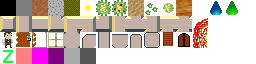
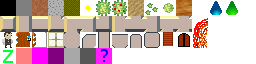
Makes invisible things turn into hot pink tiles with a question mark on them (temporary fix until I get font glyphs drawing in their place) Hopeful fix to weather animations being slow. Seems to work on my build, but may not have fixed the overall problem.

Changed region(s): [[0.375, 0.75, 0.4375, 1.0]]

diff --git a/cata_tiles.cpp b/cata_tiles.cpp
@@ -183,7 +183,9 @@ void cata_tiles::load_tileset(std::string path)
     }
     /** create the buffer screen */
     buffer = SDL_AllocSurface(SDL_SWSURFACE, WindowWidth, WindowHeight, 32, 0xff0000, 0xff00, 0xff, 0);
-    // overlay has an alpha mask attached
+
+    screentile_height = WindowHeight / tile_height;
+    screentile_width = WindowWidth / tile_width;
 
 DebugLog() << "Buffer Surface-- Width: " << buffer->w << " Height: " << buffer->h << "\n";
     /** reinit tile_atlas */
@@ -460,7 +462,7 @@ void cata_tiles::draw(int destx, int desty, int centerx, int centery, int width,
             // Draw Terrain if possible. If not possible then we need to continue on to the next part of loop
             if (!draw_terrain(x,y))
             {
-                DebugLog() << "Terrain Failed to load at <"<<x<<", "<<y<<">\n";
+                //DebugLog() << "Terrain Failed to load at <"<<x<<", "<<y<<">\n";
                 continue;
             }
             draw_furniture(x,y);
@@ -516,13 +518,23 @@ void cata_tiles::draw(int destx, int desty, int centerx, int centery, int width,
 
 bool cata_tiles::draw_from_id_string(std::string id, int x, int y, int subtile, int rota, bool is_at_screen_position)
 {
+    // For the moment, if the ID string does not produce a drawable tile it will revert to the "unknown" tile.
+    // The "unknown" tile is one that is highly visible so you kinda can't miss it :D
+
+    // check to make sure that we are drawing within a valid area [0->width|height / tile_width|height]
+    if (is_at_screen_position && (x < 0 || x > screentile_width || y < 0 || y > screentile_height)) return false;
+    else if (!is_at_screen_position && ((x-o_x) < 0 || (x-o_x) > screentile_width || (y-o_y) < 0 || (y-o_y) > screentile_height)) return false;
+
     tile_id_iterator it = tile_ids->find(id);
-    // if id is not found, return false
-    if (it == tile_ids->end()) return false;
+    // if id is not found, return unknown tile
+    if (it == tile_ids->end()) return draw_from_id_string("unknown", x, y, subtile, rota, is_at_screen_position);
 
     tile_type *display_tile = it->second;
-    // if found id does not have a valid tile_type then return false
-    if (!display_tile) return false;
+    // if found id does not have a valid tile_type then return unknown tile
+    if (!display_tile) return draw_from_id_string("unknown", x, y, subtile, rota, is_at_screen_position);
+
+    // if both bg and fg are -1 then return unknown tile
+    if (display_tile->bg == -1 && display_tile->fg == -1) return draw_from_id_string("unknown", x, y, subtile, rota, is_at_screen_position);
 
     // check to see if the display_tile is multitile, and if so if it has the key related to subtile
     if (subtile != -1 && display_tile->multitile)

diff --git a/animation_tiles.cpp b/animation_tiles.cpp
@@ -198,6 +198,8 @@ void game::draw_weather(weather_printable wPrint)
         case WEATHER_SNOW:
         case WEATHER_SNOWSTORM: weather_name = "weather_snowflake"; break;
     }
+    /*
+    // may have been the culprit of slowdown. Seems to be the same speed now for both weathered and non-weathered display
     for (std::vector<std::pair<int, int> >::iterator weather_iterator = wPrint.vdrops.begin();
          weather_iterator != wPrint.vdrops.end();
          ++weather_iterator)
@@ -205,6 +207,7 @@ void game::draw_weather(weather_printable wPrint)
         mvwputch(w_terrain, weather_iterator->second, weather_iterator->first, wPrint.colGlyph, wPrint.cGlyph);
 
     }
+    */
     tilecontext->init_draw_weather(wPrint, weather_name);
 }
 #endif

diff --git a/cata_tiles.h b/cata_tiles.h
@@ -182,6 +182,7 @@ class cata_tiles
         tile_id_map *tile_ids;
 
         int tile_height, tile_width;
+        int screentile_width, screentile_height;
         tile *screen_tiles;
         int num_tiles;
 
